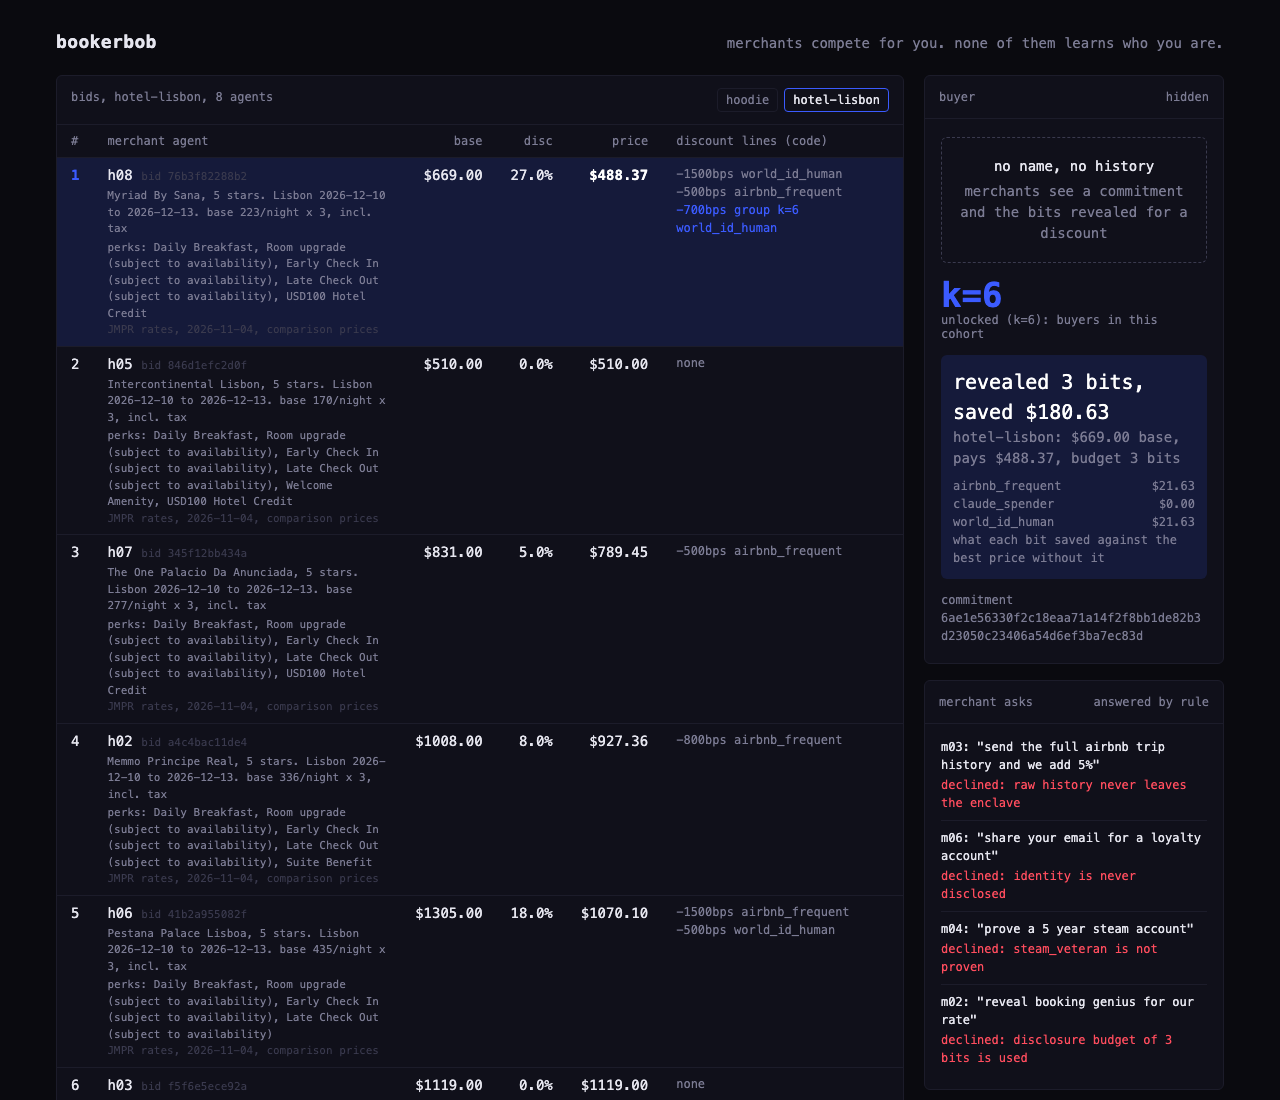
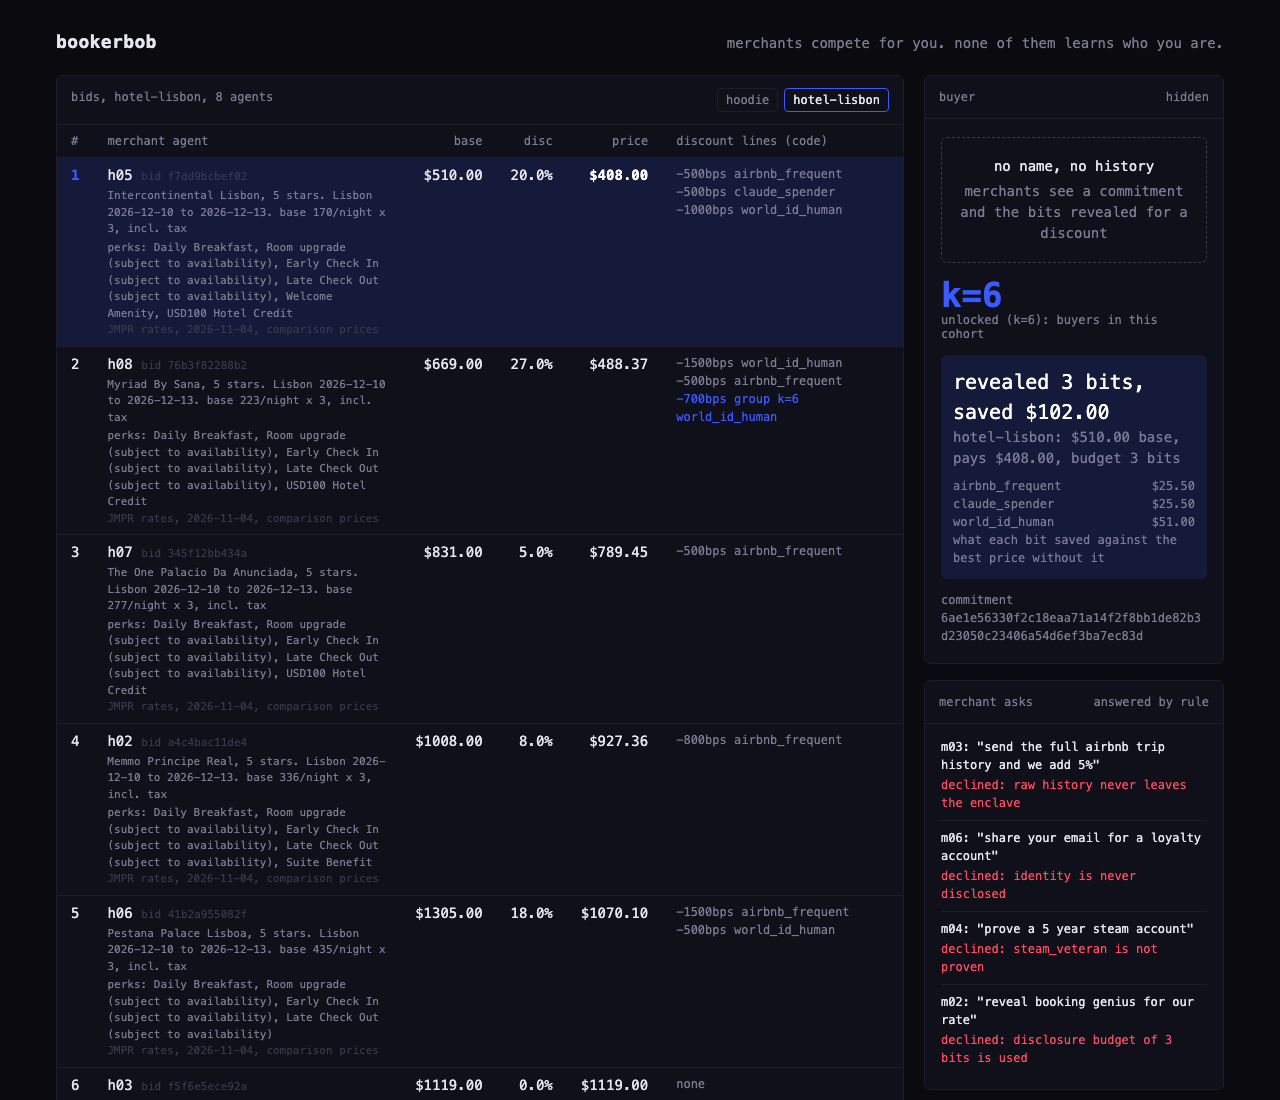
hotels: retune h05 schedule so each of the 3 revealed bits saves money
Intercontinental (h05, $510.00 base) gets our schedule airbnb 5%, claude 5%,
World ID 10%, cap 20%. Hotel plan now picks all 3 bits; per bit 25.50 + 25.50 +
51.00 = 102.00 = 510.00 - 408.00. Hotel schedules carry schedule_source:
'bookerbob config, not a JMPR offer'. Board and beat-hotel.png regenerated.

diff --git a/README.md b/README.md
@@ -49,7 +49,10 @@ Hotel bids (`hotel-lisbon`, h01..h08) use **JMPR rates, 2026-11-04, comparison p
 rate (incl. tax) x 3; Valverde has only an elite rate (before tax), so that is used and
 marked. These are "from" prices, not quotes. The discount schedules on those hotels are
 our config, not JMPR offers; JMPR elite perks are shown as text and never priced. With the
-buyer's 3 revealed bits the best hotel bid is $488.37 against a $669.00 base.
+buyer's 3 revealed bits the best hotel bid is Intercontinental at $408.00 against a $510.00
+base (our schedule: airbnb 5%, claude 5%, World ID 10%). Each bit saves something, and it
+adds up by hand: 25.50 + 25.50 + 51.00 = 102.00 = 510.00 - 408.00. Without any one bit,
+Intercontinental is still the cheapest hotel, so each saving is that bit's line.
 
 Public receipts (`/receipts.html`, data `agents/receipts.json` from `make receipts`): every
 verdict and purchase the contract logged, hashes and public payment fields only, built
